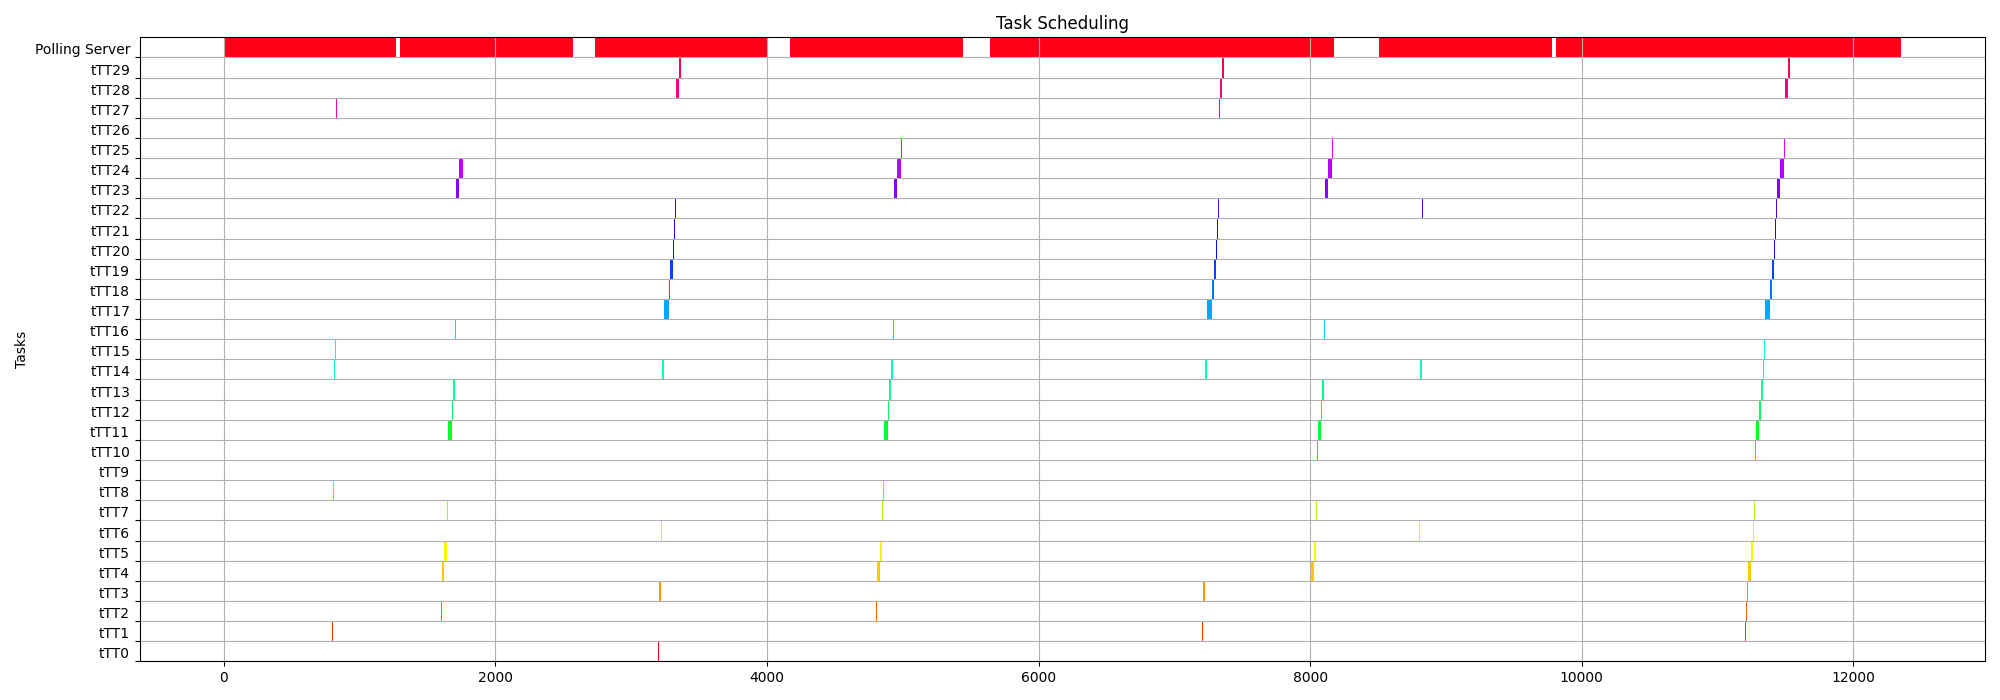
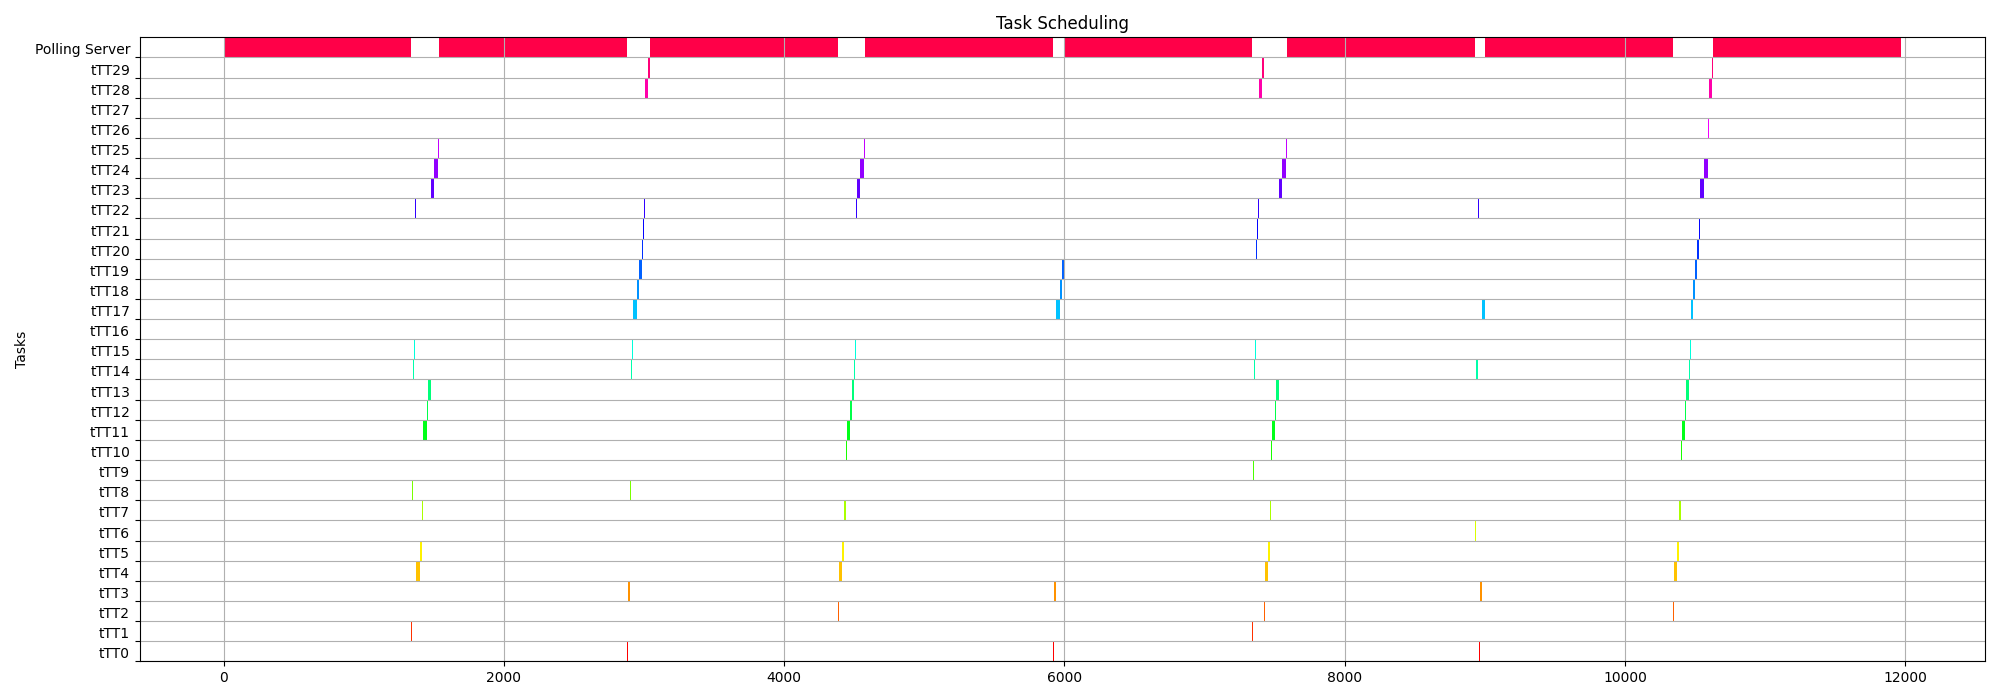
plot fix

diff --git a/libraries/simulationAnealing.py b/libraries/simulationAnealing.py
@@ -7,7 +7,6 @@ import numpy as np
 from libraries.algorithms import EDF, EDP
 import libraries.dataloader as dataloader
 from libraries.tasks import PollingServer
-from sklearn import preprocessing
 import matplotlib.pyplot as plt
 from sympy import divisors
 from math import lcm
@@ -59,7 +58,7 @@ class SimulatedAnnealing:
 
     def isTerminationCriteriaMet(self):
         # can add more termination criteria
-        return self.currTemp <= self.finalTemp or self.neighborOperator(self.solution) == 0
+        return self.currTemp <= self.finalTemp
 
     def run(self):
         while not self.isTerminationCriteriaMet():
@@ -67,13 +66,7 @@ class SimulatedAnnealing:
             for i in range(self.iterationPerTemp):
                 # pick a random neighbor
                 newSolution = self.neighborOperator(self.solution)
-                schedule, responsetime = EDP(newSolution)
-                sigma, wrct= EDF(self.TTtasks+[newSolution])
-                while(not (schedule and sigma)):
-                    newSolution = self.neighborOperator(self.solution)
-                    schedule, responsetime = EDP(newSolution)
-                    sigma, wrct= EDF(self.TTtasks+[newSolution])
-
+                
                 # get the cost between the two solutions
                 __, wrctSolution= EDF(self.TTtasks+[self.solution])
                 __, responsetime = EDP(self.solution)
@@ -105,7 +98,6 @@ class SimulatedAnnealing:
             ax.set_xlabel("Iterations")
             ax.set_ylabel(feature)
             ax.set_title(feature)
-        
         plt.show()
 
     def printSolution(self):
@@ -118,22 +110,31 @@ class SimulatedAnnealing:
         return False
 
     def computeCost(self, wcrt, response, duration, weight=0.5):
-        #np.mean(duration/self.hyperperiod)
         return weight*np.mean(wcrt)/self.hyperperiod + (1-weight)*response/self.hyperperiod# + 0.3*np.mean(duration/self.hyperperiod)
-        norm = preprocessing.normalize([np.array([np.mean(wcrt), response])])[0]
-        return weight*np.mean(norm[0]) + (1-weight)*norm[1]
 
     def neighborOperator(self, center):
-        new_duration = center.duration + random.randint(-10, 10)*10
-        new_period = self.period_divisors[self.period_divisors.index(center.period) + random.choice([-1, 0, 1])]
-        new_deadline = self.period_divisors[self.period_divisors.index(center.deadline) + random.choice([-1, 0, 1])]
-        return PollingServer(center.name, new_duration, new_period, new_deadline, center.tasks)
+        def getrandomneighbor():
+            new_duration = center.duration + random.randint(-10, 10)*10
+            new_period = self.period_divisors[self.period_divisors.index(center.period) + random.choice([-1, 0, 1])]
+            new_deadline = self.period_divisors[self.period_divisors.index(center.deadline) + random.choice([-1, 0, 1])]
+            return PollingServer(center.name, new_duration, new_period, new_deadline, center.tasks)
+
+        neighbor = getrandomneighbor()
+        while(not self.isValidNeighbor(neighbor)):
+            neighbor = getrandomneighbor()
+       
+        return neighbor
+    
+    def isValidNeighbor(self, neighbor) -> bool:
+        schedule, responsetime = EDP(neighbor)
+        sigma, wrct= EDF(self.TTtasks+[neighbor])
+        return schedule and sigma and neighbor.duration <= neighbor.period
 
 if __name__ == "__main__":
     path = "./test_cases/inf_10_10/taskset__1643188013-a_0.1-b_0.1-n_30-m_20-d_unif-p_2000-q_4000-g_1000-t_5__0__tsk.csv"
     dl = dataloader.DataLoader(path)
     TT, ET  = dl.loadFile()
-    #TT, ET = TT[:10], ET[:10]
+    TT, ET = TT, ET[:5]
     init_ps = PollingServer("Polling Server", 1300, 2000, 2000, ET)
 
     sa = SimulatedAnnealing(TT, init_ps)

diff --git a/libraries/graphplot.py b/libraries/graphplot.py
@@ -10,39 +10,44 @@ def plotTTtask(TT, sigma, xmax=None):
     plt.rcParams["figure.figsize"] = [20, 7]
     plt.rcParams["figure.autolayout"] = True
     
-    fig, gnt = plt.subplots()
-    gnt.set_title("Task Scheduling")
+    fig, ax = plt.subplots()
+    ax.set_title("Task Scheduling")
 
     #X-axis
     if xmax:
-        gnt.set_xlim(0, xmax)
+        ax.set_xlim(0, xmax)
         plt.xticks(np.arange(0, xmax, xmax//30))
-        gnt.set_xlabel('Duration')
+        ax.set_xlabel('Duration')
         
     #Y-axis
     y_ticklables = [obj.name for obj in TT]
     plt.yticks(np.arange(0, len(y_ticklables), 1.0))
-    gnt.set_yticklabels(y_ticklables, va="bottom")
-    gnt.set_ylim(0, len(y_ticklables))
-    gnt.set_ylabel('Tasks')
+    ax.set_yticklabels(y_ticklables, va="bottom")
+    ax.set_ylim(0, len(y_ticklables))
+    ax.set_ylabel('Tasks')
         
     #data
     res = defaultdict(list)
-    for i, value in enumerate(sigma):
-        if value != "Idle":
-            res[value].append(i)
+    current_val = sigma[0]
+    starting_idx = 0
+    length = 1
+    for i, val in enumerate(sigma[1:]):
+        if val == current_val:
+            length += 1
+        else:
+            res[current_val].append((starting_idx, length))
+            length = 1
+            starting_idx = i+1
+            current_val = val
+    res[current_val].append((starting_idx, length))
 
     cmap = plt.cm.get_cmap('hsv', len(res))
     for key, value in res.items():
-        lst = []
-        v = 0
-        while (v < len(value)):
-            t = {i: obj.duration for i, obj in enumerate(TT)}[key]
-            lst.append((value[v] , t))
-            v += t
-        gnt.broken_barh(lst, (key, 1), facecolors= cmap(key))
+        if key=="Idle":
+            continue
+        ax.broken_barh(value, (key, 1), facecolors=cmap(key))
         
-    gnt.grid(True)
+    ax.grid(True)
     plt.savefig("sheduling.png")
     plt.show()
      
@@ -84,7 +89,7 @@ if __name__ == "__main__":
     path = "./test_cases/inf_10_10/taskset__1643188013-a_0.1-b_0.1-n_30-m_20-d_unif-p_2000-q_4000-g_1000-t_5__0__tsk.csv"
     dl = DataLoader(path)
     TT, ET  = dl.loadFile()
-    ps = PollingServer("ps", duration=18, period=2000, deadline=2000, tasks=ET)
+    ps = PollingServer("ps", duration=18, period=200, deadline=2000, tasks=ET)
     sigma, WCRT = EDF(TT+[ps])
     #print(sigma, WCRT)
     plotTTtask(TT+[ps], sigma)
